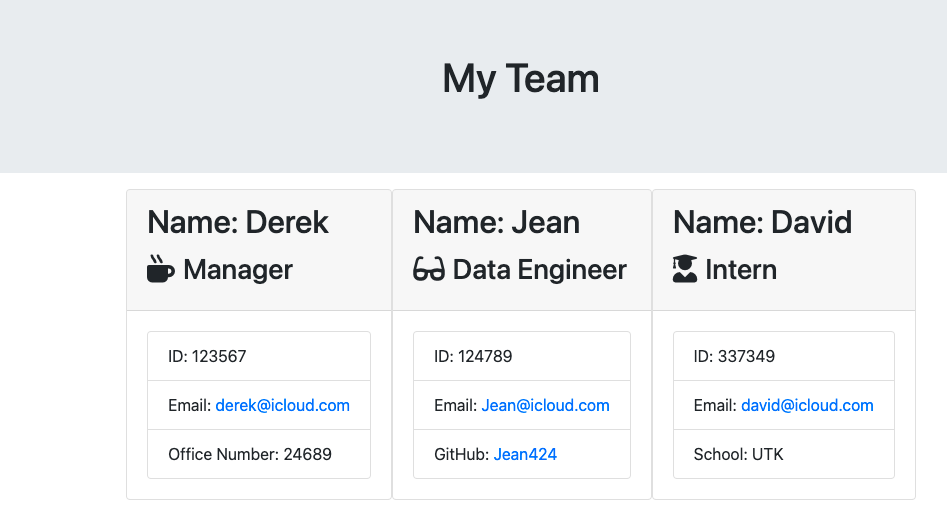
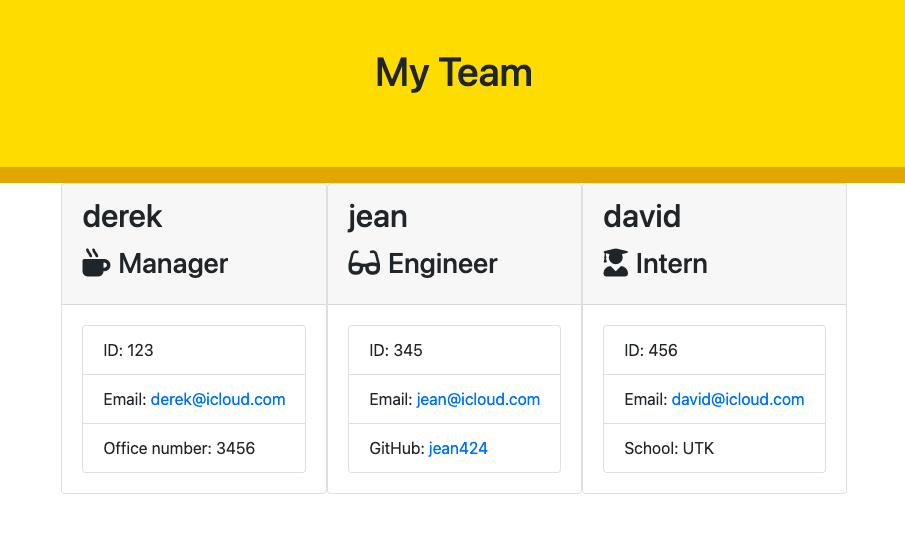
add some modifications

diff --git a/Develop/team.html b/Develop/team.html
@@ -1,83 +1,73 @@
-<!DOCTYPE html>
-<html lang="en">
 
-  <head>
-    <meta charset="UTF-8"/>
-    <meta name="viewport" content="width=device-width, initial-scale=1.0"/>
-    <meta http-equiv="X-UA-Compatible" content="ie=edge"/>
-    <title>Team Member</title>
-    <link rel="stylesheet" href="https://stackpath.bootstrapcdn.com/bootstrap/4.3.1/css/bootstrap.min.css" integrity="sha384-ggOyR0iXCbMQv3Xipma34MD+dH/1fQ784/j6cY/iJTQUOhcWr7x9JvoRxT2MZw1T" crossorigin="anonymous">
+    <!DOCTYPE html>
+<html lang="en">
+<head>
+    <meta charset="UTF-8" />
+    <meta name="viewport" content="width=device-width, initial-scale=1.0" />
+    <meta http-equiv="X-UA-Compatible" content="ie=edge" />
+    <title>My Team</title>
+    <link rel="stylesheet" href="https://stackpath.bootstrapcdn.com/bootstrap/4.3.1/css/bootstrap.min.css"
+        integrity="sha384-ggOyR0iXCbMQv3Xipma34MD+dH/1fQ784/j6cY/iJTQUOhcWr7x9JvoRxT2MZw1T" crossorigin="anonymous">
     <link rel="stylesheet" href="style.css">
     <script src="https://kit.fontawesome.com/c502137733.js"></script>
-  </head>
-
-  <body>
-    <div class="container-fluid">
-      <div class="row">
-        <div class="col-12 jumbotron mb-3 team-heading">
-          <h1 class="text-center">My Team</h1>
+</head>
+<body>
+    <div class="container-fluid" style="background: goldenrod">
+        <div class="row">
+            <div class="col-12 jumbotron mb-3 team-heading" style="background: gold">
+                <h1 class="text-center">My Team</h1>
+            </div>
         </div>
-      </div>
     </div>
     <div class="container">
-      <div class="row">
-        <div class="team-area col-12 d-flex justify-content-center">
-
-          <div class="card employee-card">
-            <div class="card-header">
-              <h2 class="card-title">Name: Derek</h2>
-              <h3 class="card-title">
-                <i class="fas fa-mug-hot mr-2"></i>Manager</h3>
-            </div>
-            <div class="card-body">
-              <ul class="list-group">
-                <li class="list-group-item">ID: 123567</li>
-                <li class="list-group-item">Email:
-                  <a href="mailto:derek@icloud.com">derek@icloud.com</a>
-                </li>
-                <li class="list-group-item">Office Number: 24689</li>
-              </ul>
-            </div>
-          </div>
-
-          <div class="card employee-card">
-            <div class="card-header">
-              <h2 class="card-title">Name: Jean</h2>
-              <h3 class="card-title">
-                <i class="fas fa-glasses mr-2"></i>Data Engineer</h3>
-            </div>
-            <div class="card-body">
-              <ul class="list-group">
-                <li class="list-group-item">ID: 124789</li>
-                <li class="list-group-item">Email:
-                  <a href="mailto:Jean@icloud.com">Jean@icloud.com</a>
-                </li>
-                <li class="list-group-item">GitHub:
-                  <a href="https://github.com/Jean424" target="_blank" rel="noopener noreferrer">Jean424</a>
-                </li>
-              </ul>
-            </div>
-          </div>
-
-          <div class="card employee-card">
-            <div class="card-header">
-              <h2 class="card-title">Name: David</h2>
-              <h3 class="card-title">
-                <i class="fas fa-user-graduate mr-2"></i>Intern</h3>
-            </div>
-            <div class="card-body">
-              <ul class="list-group">
-                <li class="list-group-item">ID: 337349</li>
-                <li class="list-group-item">Email:
-                  <a href="mailto:david@icloud.com">david@icloud.com</a>
-                </li>
-                <li class="list-group-item">School: UTK</li>
-              </ul>
-            </div>
-          </div>
-
+        <div class="row">
+            <div class="team-area col-12 d-flex justify-content-center">
+                
+        <div class="card employee-card">
+        <div class="card-header">
+            <h2 class="card-title">derek</h2>
+            <h3 class="card-title"><i class="fas fa-mug-hot mr-2"></i>Manager</h3>
         </div>
-      </div>
+        <div class="card-body">
+            <ul class="list-group">
+                <li class="list-group-item">ID: 123</li>
+                <li class="list-group-item">Email: <a href="mailto:derek@icloud.com">derek@icloud.com</a></li>
+                <li class="list-group-item">Office number: 3456</li>
+            </ul>
+        </div>
     </div>
-  </body>
+        
+        <div class="card employee-card">
+    <div class="card-header">
+        <h2 class="card-title">jean</h2>
+        <h3 class="card-title"><i class="fas fa-glasses mr-2"></i>Engineer</h3>
+    </div>
+    <div class="card-body">
+        <ul class="list-group">
+            <li class="list-group-item">ID: 345</li>
+            <li class="list-group-item">Email: <a href="mailto:jean@icloud.com">jean@icloud.com</a></li>
+            <li class="list-group-item">GitHub: <a href="https://github.com/jean424" target="_blank" rel="noopener noreferrer">jean424</a></li>
+        </ul>
+    </div>
+</div>
+        
+        <div class="card employee-card">
+    <div class="card-header">
+        <h2 class="card-title">david</h2>
+        <h3 class="card-title"><i class="fas fa-user-graduate mr-2"></i>Intern</h3>
+    </div>
+    <div class="card-body">
+        <ul class="list-group">
+            <li class="list-group-item">ID: 456</li>
+            <li class="list-group-item">Email: <a href="mailto:david@icloud.com">david@icloud.com</a></li>
+            <li class="list-group-item">School: UTK</li>
+        </ul>
+    </div>
+</div>
+        
+            </div>
+        </div>
+    </div>
+</body>
 </html>
+    

diff --git a/README.md b/README.md
@@ -1,1 +1,32 @@
 # TeamProfle_Generator
+
+## Project Description
+This is a command-line application to make the user get prompted for the required questions and have it succesfully get read file. 
+
+## Table of Contents
+- [Installation](#installation)
+- [Usage](#usage)
+- [Contribution](#contribution)
+- [Contact](#contact)
+
+## Installation
+This package uses Node and you will need to install Node.js in order to use this application. Just type "npm i" in the terminal in this project's file location.
+      
+## Usage
+To start you will need to navigate to the teamprofile genetator in your terminal using the change directory command (cd). Once you are at the directory you will need to apply the Node package ("npm i" command). Once Node is installed you can run "node index.js" to start up the program. You will then follow the prompts given in the terminal. You can input the name, position, ID number, and Github user name. After the prompts are filled out, the conmandline will output a structured html page that will display all these facts in well organized cards.
+      
+## Contribution
+Please contact me if you would like to contribute something.
+
+## Contact
+Feel free to contact me via one of the links below with any questions.
+- GitHub: Jean424
+- Email: jeanlee.jingli@icloud.com
+
+## Link
+- Repo Link: https://github.com/Jean424
+- Link to video of the walkthrough: https://watch.screencastify.com/v/5gD0d1LcNCjm8Iq2r2Sh
+- Photo of the my team html page:
+![Screenshot of readme generater](./Develop/Assets/images/ScreenShot_MyTeam.png)
+
+
